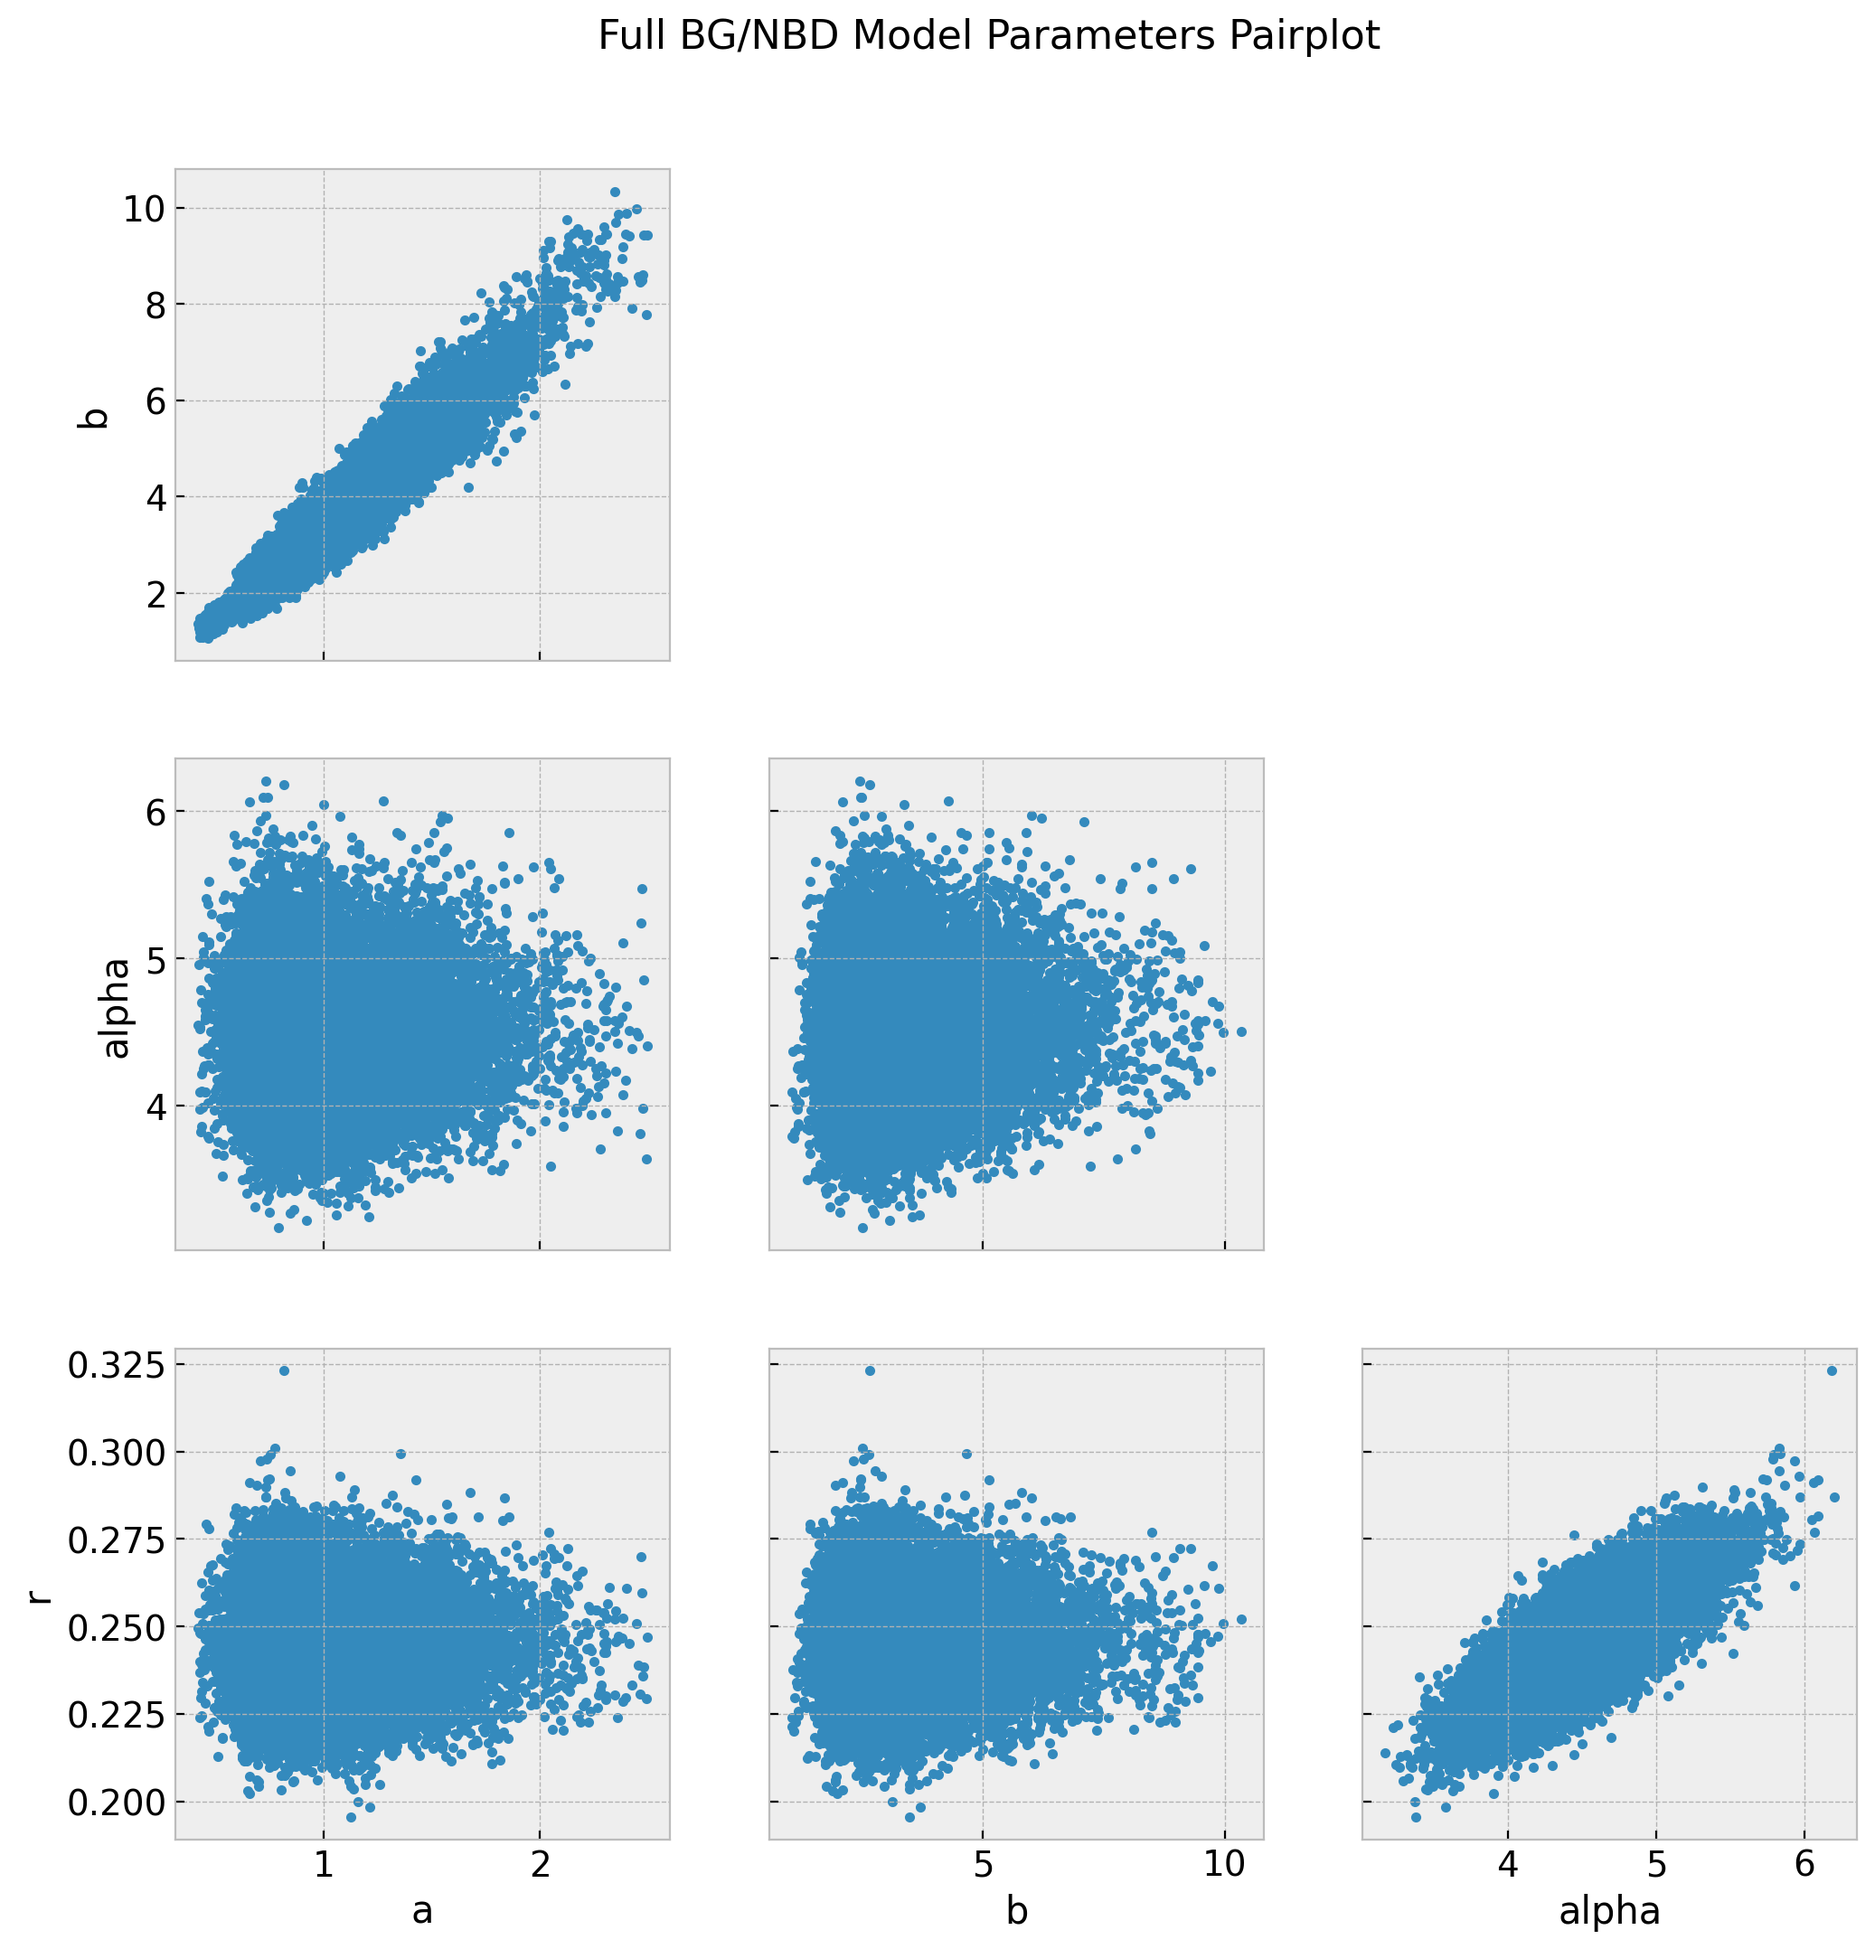
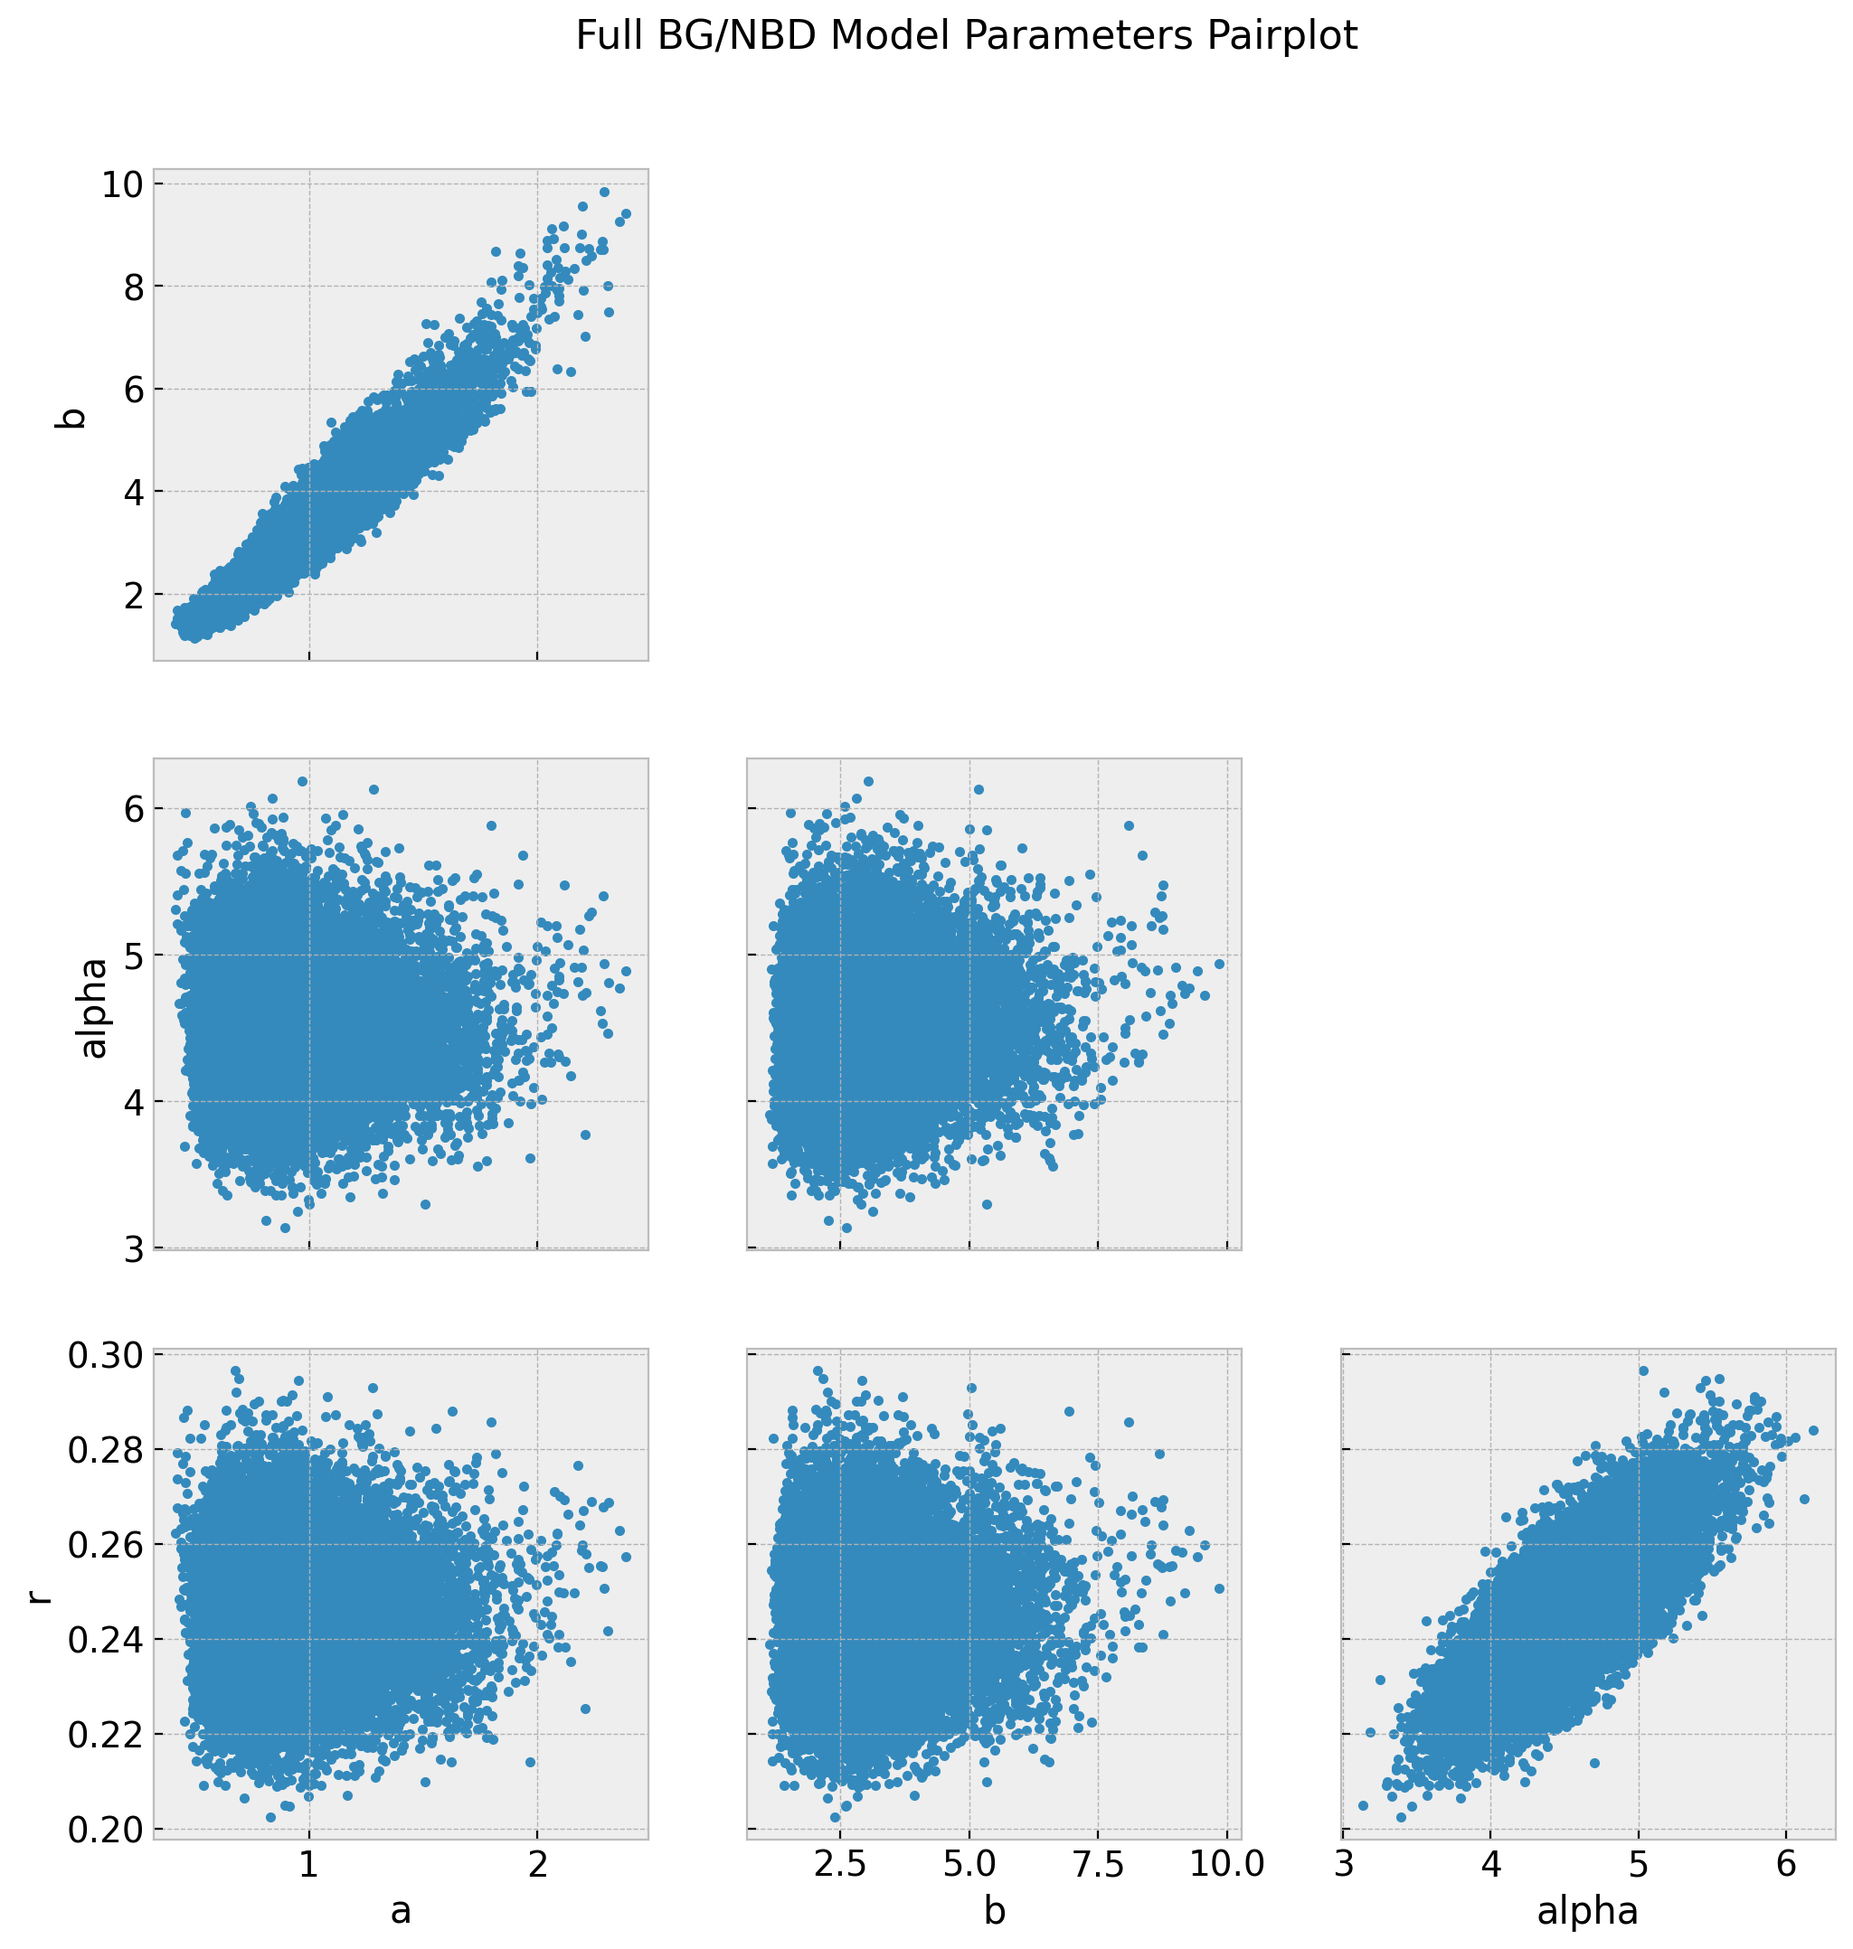
update presentation plots from notebook reference directly

diff --git a/Presentations/berlin_bayesians_clv/berlin_bayesians_btyd.html b/Presentations/berlin_bayesians_clv/berlin_bayesians_btyd.html
@@ -692,7 +692,7 @@ A_{3} = \left(\frac{1}{\alpha + T}\right)^{r+x}
 <h2>Future Purchases</h2>
 <p>Similarty, using the analytical expressions:</p>
 
-<img data-src="berlin_bayesians_btyd_files/images/freq_hdi.png" class="r-stretch quarto-figure-center"><div class="footer">
+<img data-src="berlin_bayesians_btyd_files/images/bg_nbd_pymc_files/bg_nbd_pymc_42_0.png" class="r-stretch quarto-figure-center"><div class="footer">
 <p>See <a href="https://juanitorduz.github.io/bg_nbd_pymc/">BG/NBD Model in PyMC</a></p>
 </div>
 </section>
@@ -764,14 +764,14 @@ b &amp; \longmapsto b_{0}\exp(\gamma_{3}^{T}z_{2})
 <section id="model-parameters" class="slide level2">
 <h2>Model Parameters</h2>
 
-<img data-src="berlin_bayesians_btyd_files/images/trace_m2.png" class="r-stretch quarto-figure-center"><div class="footer">
+<img data-src="berlin_bayesians_btyd_files/images/bg_nbd_pymc_files/bg_nbd_pymc_55_1.png" class="r-stretch quarto-figure-center"><div class="footer">
 <p>See <a href="https://juanitorduz.github.io/bg_nbd_pymc/">BG/NBD Model in PyMC</a></p>
 </div>
 </section>
 <section id="effect-in-parameters" class="slide level2">
 <h2>Effect in Parameters</h2>
 
-<img data-src="berlin_bayesians_btyd_files/images/alpha_posterior.png" class="r-stretch quarto-figure-center"><ul>
+<img data-src="berlin_bayesians_btyd_files/images/bg_nbd_pymc_files/bg_nbd_pymc_59_0.png" class="r-stretch quarto-figure-center"><ul>
 <li>Recall <span class="math inline">\(\lambda \sim \text{Gamma}(r, \alpha)\)</span>, which has expected value <span class="math inline">\(r/\alpha\)</span>.</li>
 <li>Hence, as <span class="math inline">\(g_1 &lt; 0\)</span>, then <span class="math inline">\(\alpha(z=1) &gt; \alpha(z=0)\)</span> which is consistent with the data generation process where <span class="math inline">\(z = 1\)</span> implied a lower frequency.</li>
 </ul>
